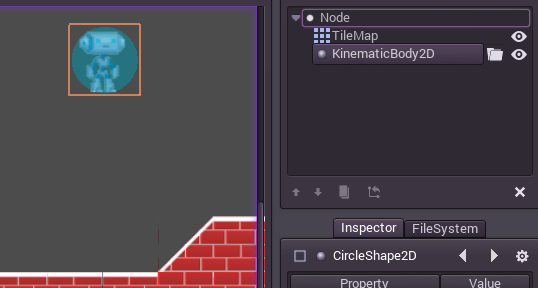
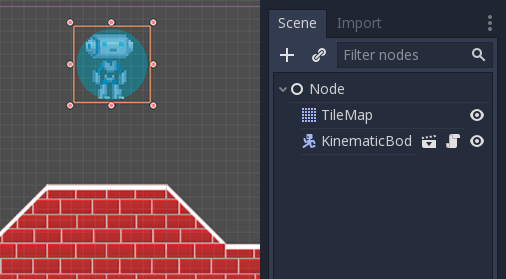
Update Kinematic Character(2D) Page
(cherry picked from commit 60fbc594baa833024ccb96ac35cfb7ea65cdf4c3)

diff --git a/tutorials/physics/kinematic_character_2d.rst b/tutorials/physics/kinematic_character_2d.rst
@@ -54,12 +54,27 @@ per second, always. This makes physics and motion calculation work in a
 more predictable way than using regular process, which might have spikes
 or lose precision if the frame rate is too high or too low.
 
-::
+.. tabs::
+ .. code-tab:: gdscript GDScript
 
     extends KinematicBody2D
 
     func _physics_process(delta):
         pass
+
+ .. code-tab:: csharp
+
+    using Godot;
+    using System;
+
+    public class PhysicsScript : KinematicBody2D
+    {
+        
+        public override void _PhysicsProcess(float delta)
+        {
+        }
+    }
+
 
 Scene setup
 ~~~~~~~~~~~
@@ -70,9 +85,10 @@ for the character. Use the robot sprite and create a scene like this:
 
 .. image:: img/kbscene.png
 
-Let's add a circular collision shape to the collision body, create a new
-CircleShape2D in the shape property of CollisionShape2D. Set the radius
-to 30:
+You'll notice that there's a warning icon next to our CollisionShape2D node, 
+that's because we haven't defined a shape for it. Create a new CircleShape2D 
+in the shape property of CollisionShape2D. Click on <CircleShape2D> to go to the 
+options for it, and set the radius to 30:
 
 .. image:: img/kbradius.png
 
@@ -104,12 +120,28 @@ collision happens, it stops right at the moment of the collision.
 
 So, let's move our sprite downwards until it hits the floor:
 
-::
+.. tabs::
+ .. code-tab:: gdscript GDScript 
 
     extends KinematicBody2D
 
     func _physics_process(delta):
         move_and_collide(Vector2(0,1)) # Move down 1 pixel per physics frame
+
+ .. code-tab:: csharp 
+
+    using Godot;
+    using System;
+
+    public class PhysicsScript : KinematicBody2D
+    {
+        
+        public override void _PhysicsProcess(float delta)
+        {
+            // Move down 1 pixel per physics frame
+            MoveAndCollide(new Vector2 (0,1));
+        }
+    }
 
 The result is that the character will move, but stop right when
 hitting the floor. Pretty cool, huh?
@@ -117,7 +149,8 @@ hitting the floor. Pretty cool, huh?
 The next step will be adding gravity to the mix, this way it behaves a
 little more like an actual game character:
 
-::
+.. tabs::
+ .. code-tab:: gdscript GDScript 
 
     extends KinematicBody2D
 
@@ -131,13 +164,33 @@ little more like an actual game character:
         var motion = velocity * delta
         move_and_collide(motion)
 
+ .. code-tab:: csharp 
+
+    using Godot;
+    using System;
+
+    public class PhysicsScript : KinematicBody2D
+    {
+        const float gravity = 200.0f;
+        Vector2 velocity;
+
+        public override void _PhysicsProcess(float delta)
+        {
+            velocity.y += delta * gravity;
+
+            var motion = velocity * delta;
+            MoveAndCollide(motion);
+        }
+    }
+
 Now the character falls smoothly. Let's make it walk to the sides, left
 and right when touching the directional keys. Remember that the values
 being used (for speed at least) is pixels/second.
 
 This adds simple walking support by pressing left and right:
 
-::
+..tabs::
+ .. code-tab:: gdscript GDScript
 
     extends KinematicBody2D
 
@@ -156,12 +209,49 @@ This adds simple walking support by pressing left and right:
             velocity.x =  WALK_SPEED
         else:
             velocity.x = 0
-
-        var motion = velocity * delta
         
+        # We don't need to multiply velocity by delta becuase MoveAndSlide already takes delta time into account.
+
         # The second parameter of move_and_slide is the normal pointing up.
         # In the case of a 2d platformer, in Godot upward is negative y, which translates to -1 as a normal.
-        move_and_slide(motion, Vector2(0, -1))
+        move_and_slide(velocity, Vector2(0, -1))
+
+ .. code-tab:: csharp 
+
+    using Godot;
+    using System;
+
+    public class PhysicsScript : KinematicBody2D
+    {
+        const float gravity = 200.0f;
+        const int walk_speed = 200;
+
+        Vector2 velocity;
+
+        public override void _PhysicsProcess(float delta)
+        {
+            velocity.y += delta * gravity;
+
+            if (Input.IsActionPressed("ui_left"))
+            {
+                velocity.x = -walk_speed;
+            }
+            else if (Input.IsActionPressed("ui_right"))
+            {
+                velocity.x = walk_speed;
+            }
+            else
+            {
+                velocity.x = 0;
+            }
+
+            // We don't need to multiply velocity by delta because MoveAndSlide already takes delta time into account.
+
+            // The second parameter of MoveAndSlide is the normal pointing up.
+            // In the case of a 2d platformer, in Godot upward is negative y, which translates to -1 as a normal. 
+            MoveAndSlide(velocity, new Vector2(0, -1));
+        }
+    }
 
 And give it a try.
 
